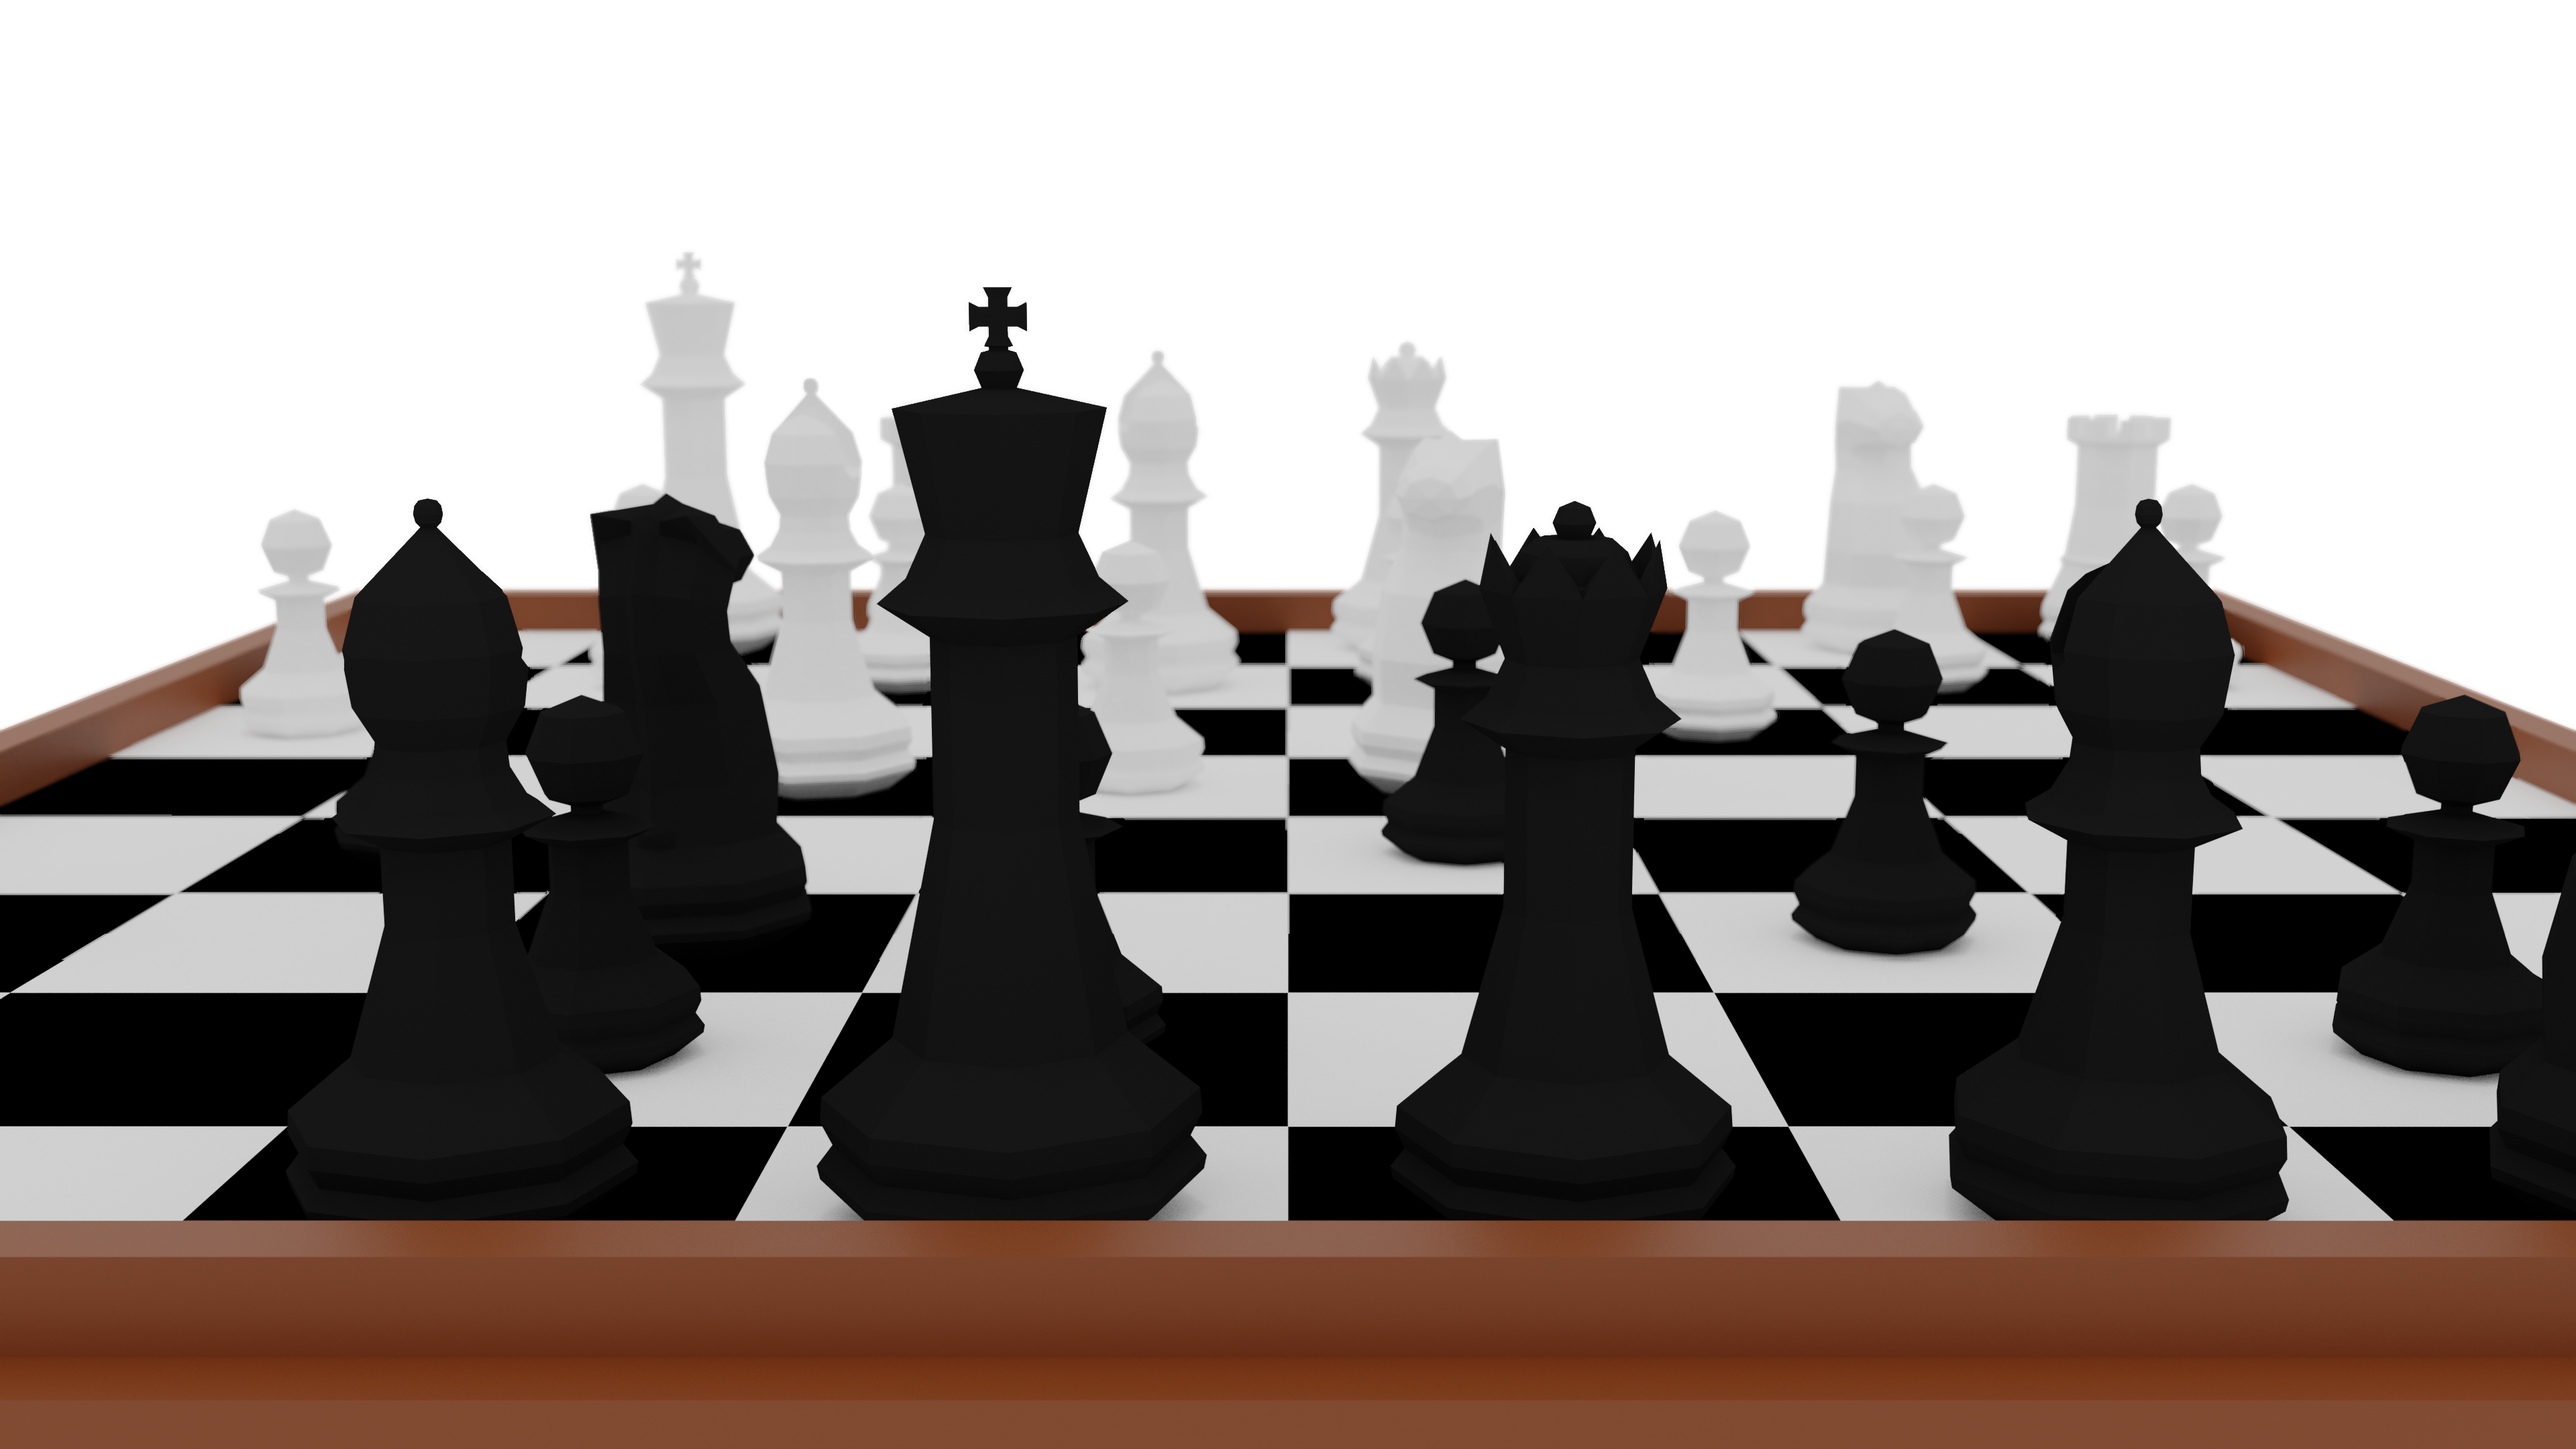
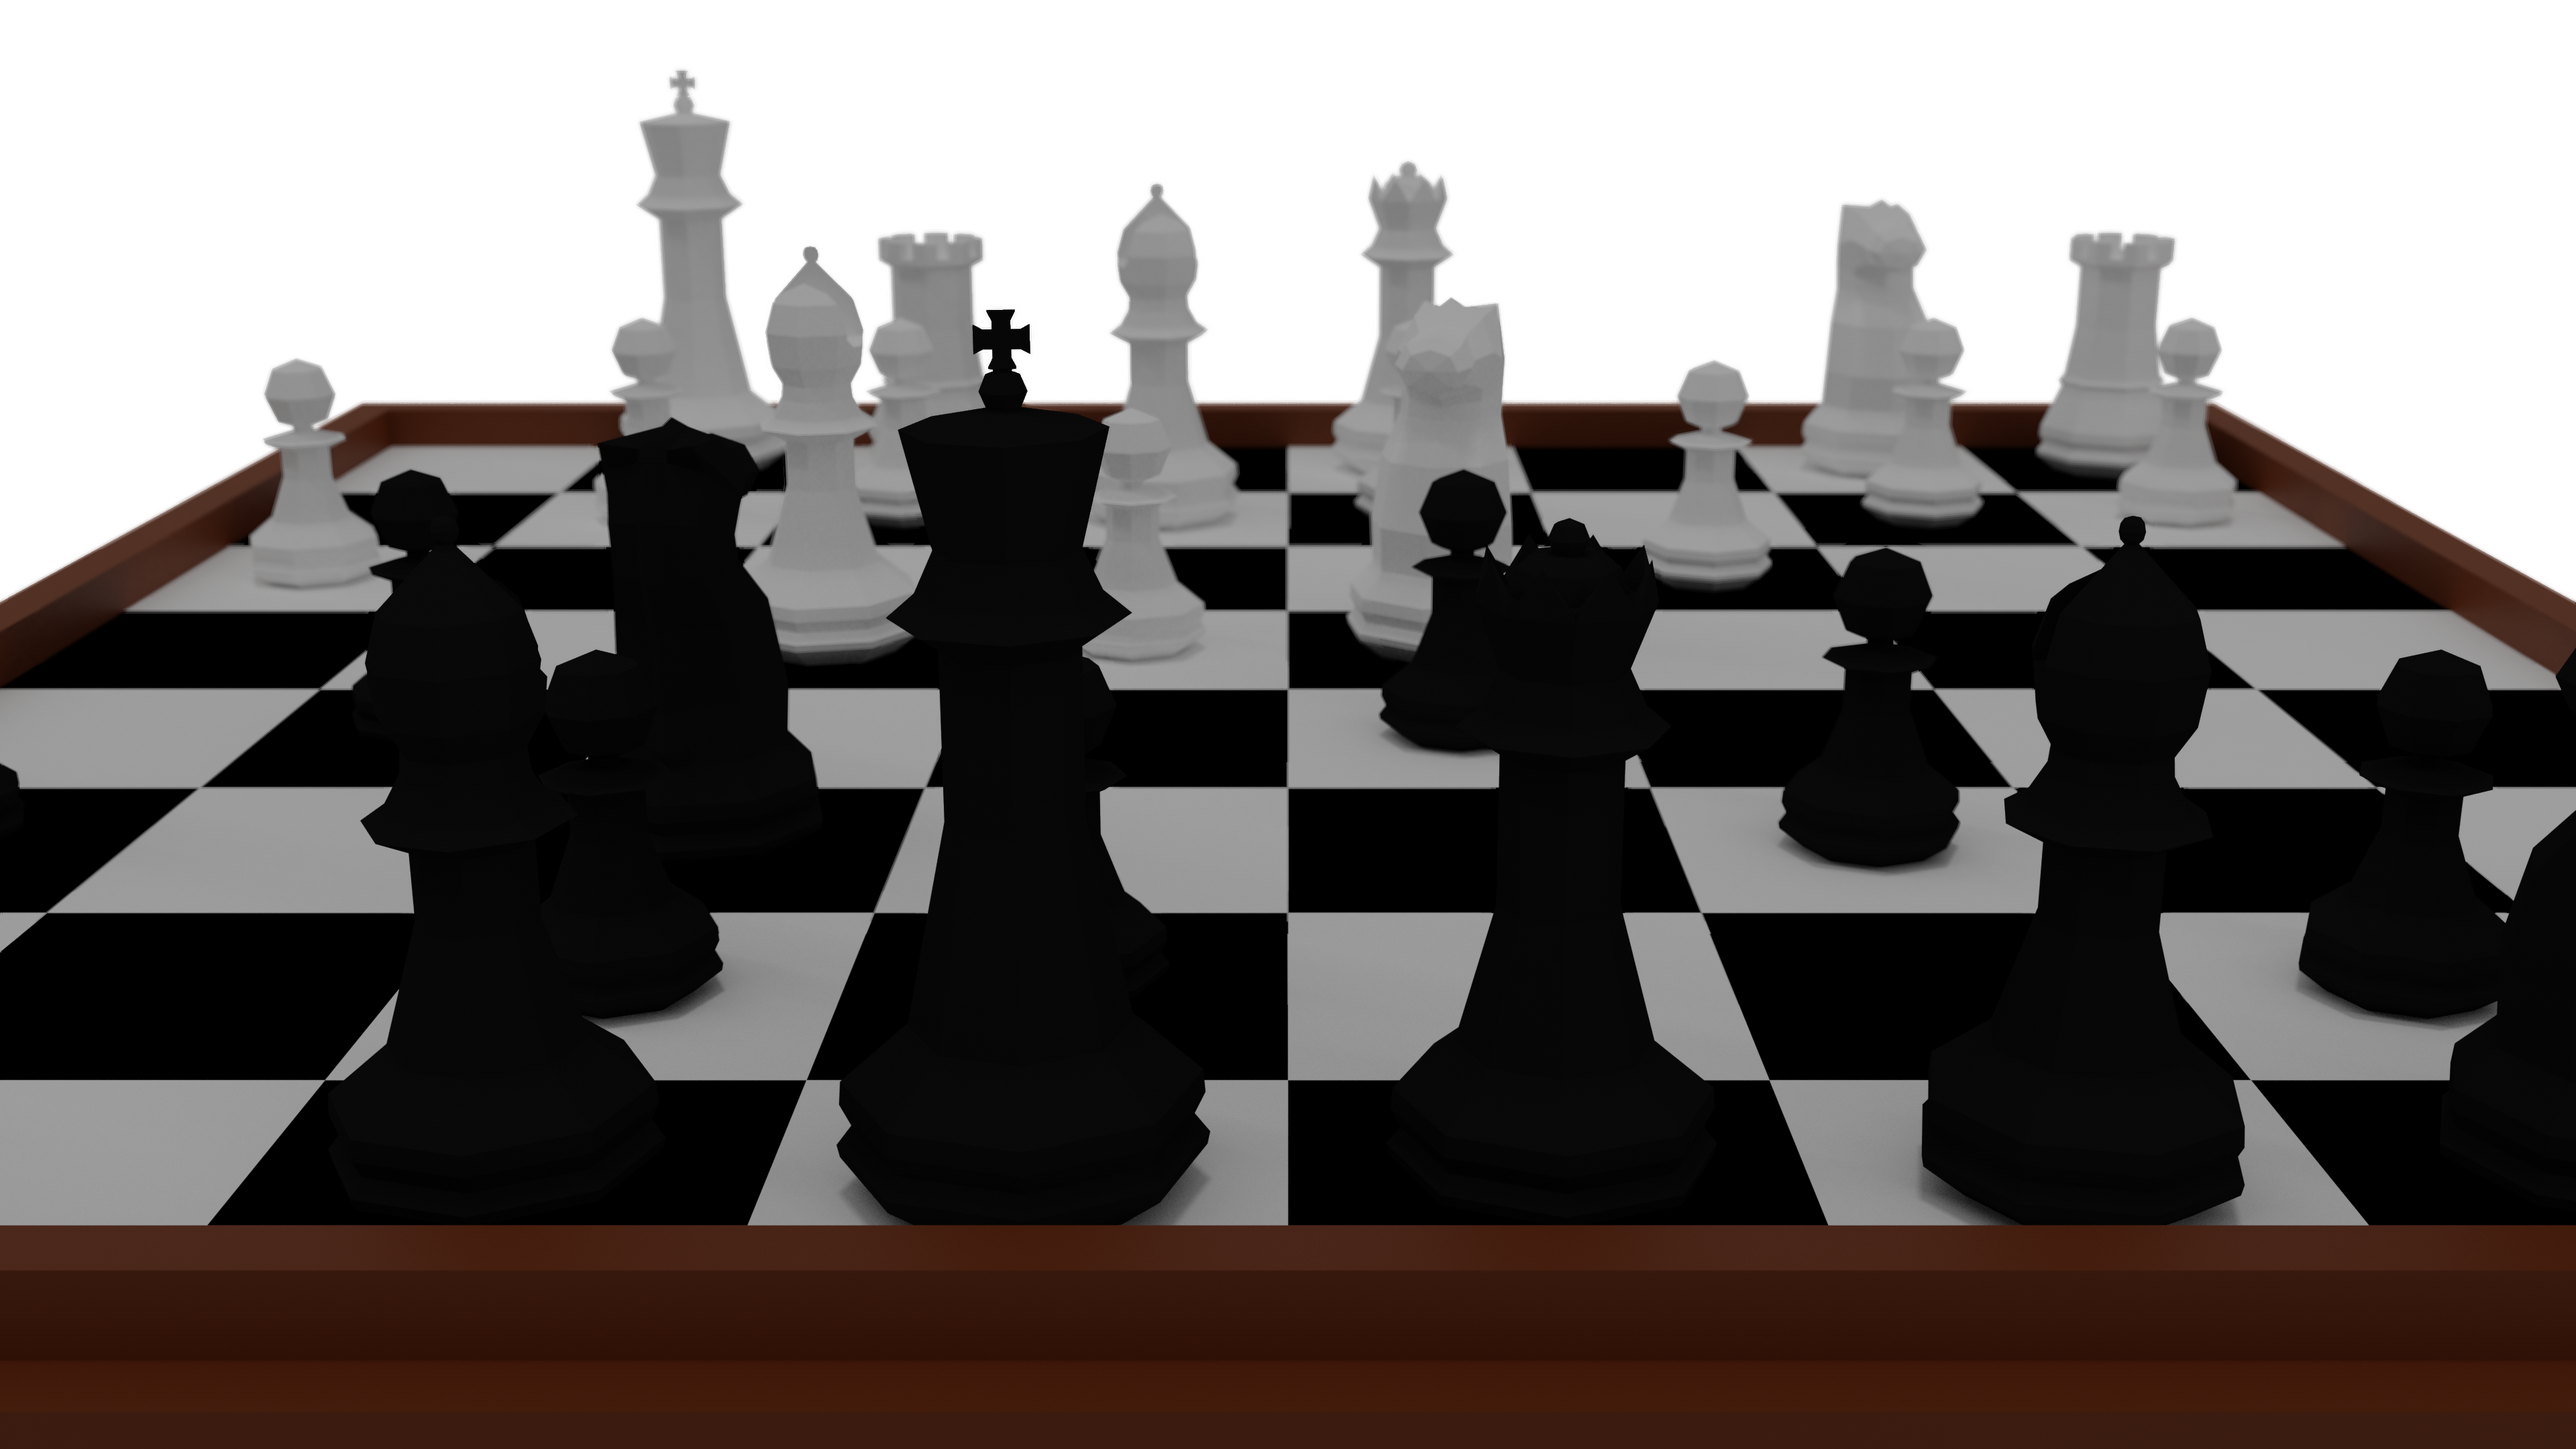
Add more backgrounds

diff --git a/controllers/backgroundcontroller.cpp b/controllers/backgroundcontroller.cpp
@@ -46,7 +46,7 @@ BackgroundController::BackgroundController(QObject* parent) : QObject(parent) {
     connect(d->stageProgress, &tVariantAnimation::valueChanged, this, &BackgroundController::forceUpdate);
     connect(d->stageProgress, &tVariantAnimation::finished, this, [ = ] {
         d->stage++;
-        if (d->stage == 2) d->stage = 0;
+        if (d->stage == 3) d->stage = 0;
 
         updateImage();
 
@@ -94,6 +94,9 @@ void BackgroundController::updateImage() {
             break;
         case 1:
             filename = ":/assets/background1.png";
+            break;
+        case 2:
+            filename = ":/assets/background2.png";
             break;
     }
 
